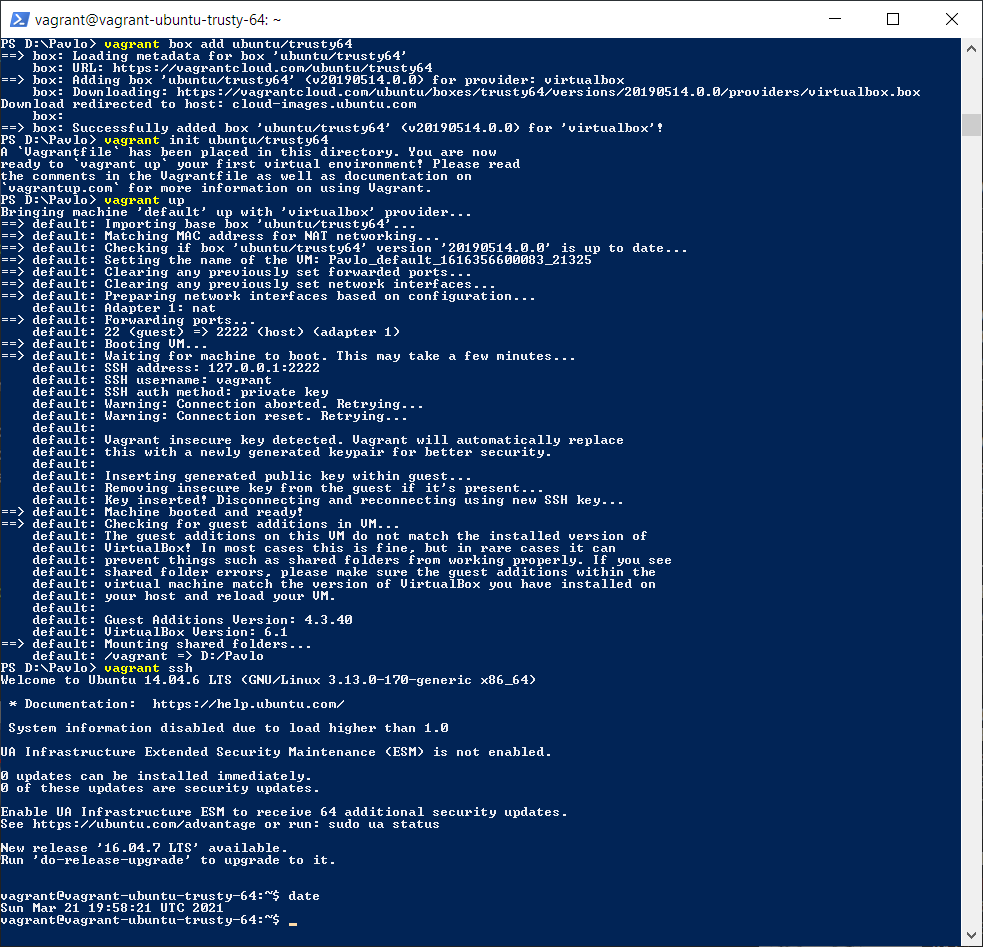
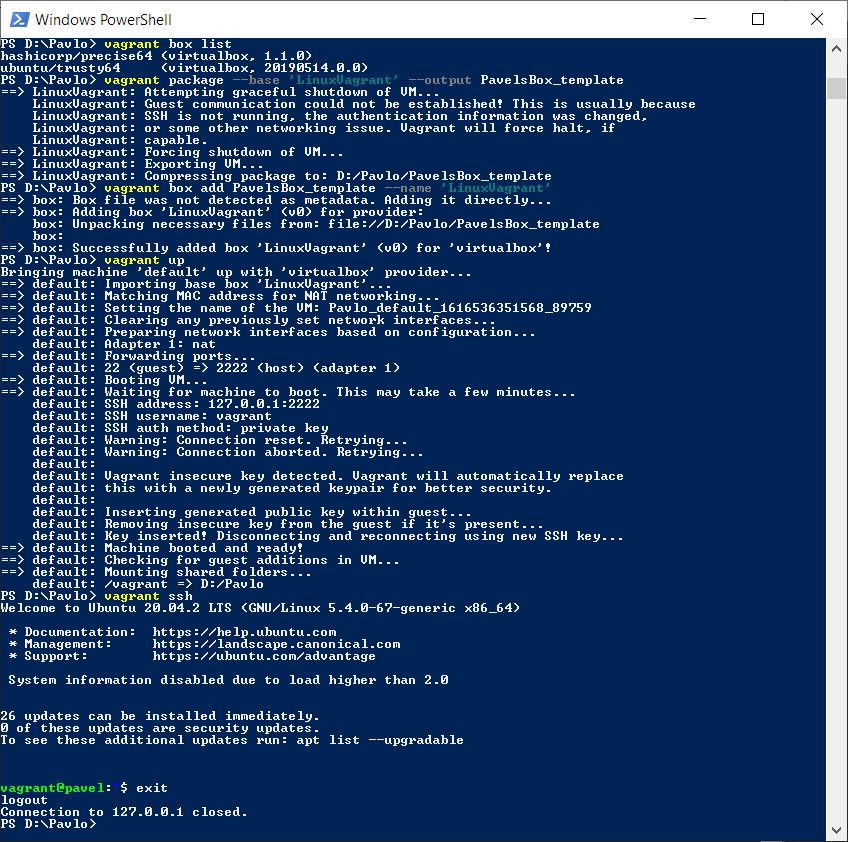
remade vagrant box task correctly

Changed region(s): [[0.0, 0.0, 1.0, 1.0]]

diff --git a/m2/task2.1/readme.md b/m2/task2.1/readme.md
@@ -138,7 +138,7 @@ After that, start Vagrant VM with <code>vagrant up</code>.
 <img src="./screenshots/vagrant1.png" width="900" height="900">
 
 <p>Connection to Vagrant VM has been established through SSH using <strong>MobaXtrem</strong>.<br>
-After successful connection I executed command `date` to ensure, that everything works.
+After successful connection I executed command <code>date</code> to ensure, that everything works.
 </p>
 
 <img src="./screenshots/vagrant2.png" width="1000" height="700">
@@ -147,8 +147,9 @@ After successful connection I executed command `date` to ensure, that everything
 
 <img src="./screenshots/vagrant3.png" width="600" height="80">
 
-<p>I created another Vagrant box using <code>vagrant box add ubuntu/trusty64</code>.<br>
-Then I launched it, tested work and deleted it.
+<p>To create my own vagrant box, firstly I created new VM - Ubuntu Server.<br>
+Then I opened powershell and typed <code>vagrant package --base 'LinuxVagrant' --output PavelsBox_template</code>.<br>
+This command creates template of my VM. Now I can create VMs off of my template using vagrant. 
 </p>
 
 <img src="./screenshots/vagrant4.png" width="900" height="900">
